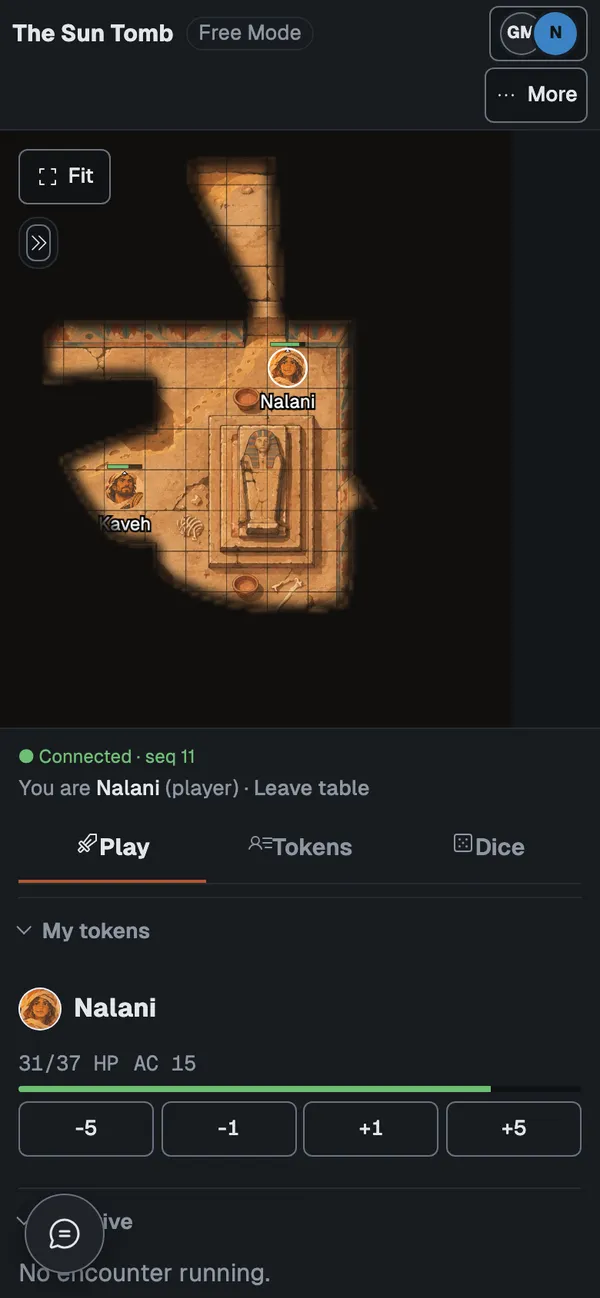
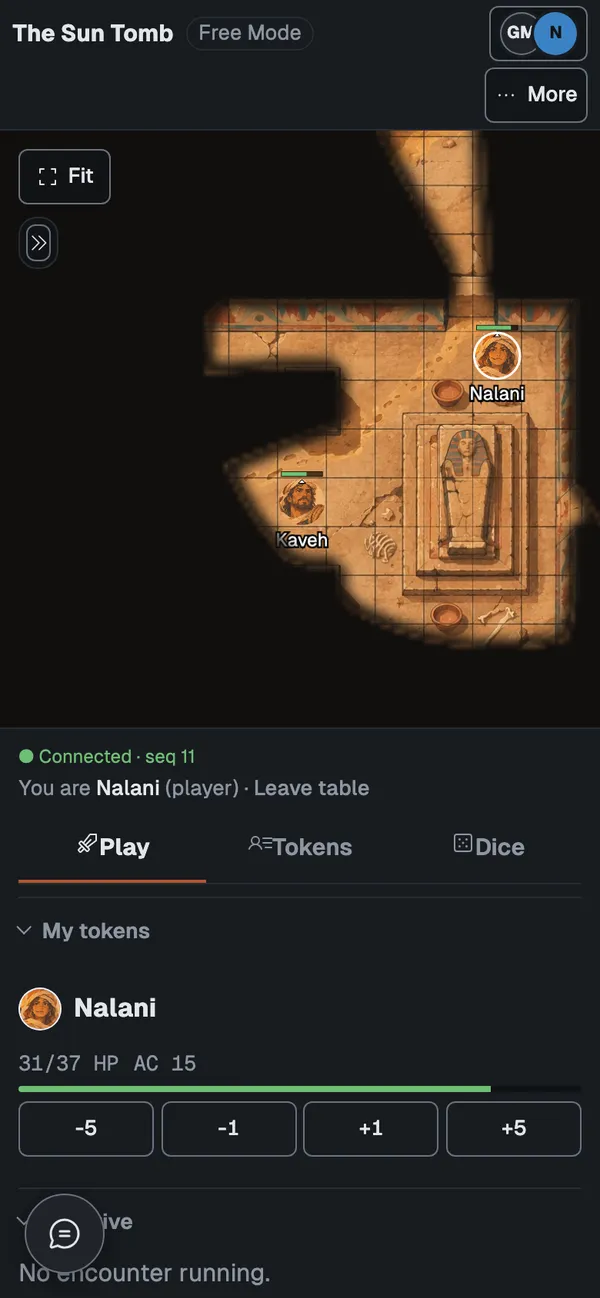
fix(web): home phone capture fills the board, no blank edge
The players section's capture of a player's phone showed the board's
background down the right edge: it had been panned to centre the lit
area. Retaken zoomed in around the lit area with no pan, so the map
reaches both edges of the board.

Changed region(s): [[0.06, 0.0924, 0.99, 0.5239]]

diff --git a/apps/web/public/img/home/CREDITS.md b/apps/web/public/img/home/CREDITS.md
@@ -43,7 +43,7 @@ the face for the board's round token.
 
 | File | What it is | How it was made |
 | --- | --- | --- |
-| `player-phone.webp` | A player's board on a phone, 600 × 1298 | The Sun Tomb uploaded to a dev account's library on the isolated dev server and set in a room, with the walls from `homeWalls.ts`, line of sight on and a 30 ft sight range. A guest joined at 390 × 844 (2× pixels) as Nalani, and the board was panned and zoomed toward Nalani's token. The hidden guardian in the side chamber is not in the player's view, as at the table. |
+| `player-phone.webp` | A player's board on a phone, 600 × 1298 | The Sun Tomb uploaded to a dev account's library on the isolated dev server and set in a room, with the walls from `homeWalls.ts`, line of sight on and a 30 ft sight range. A guest joined at 390 × 844 (2× pixels) as Nalani, and the board was zoomed in around the lit area, without panning, so the map fills the board to both edges. The hidden guardian in the side chamber is not in the player's view, as at the table. |
 | `attack-still.webp` | The attack tile's still, 960 × 602 | The home page's own attack tile (the animation editor's preview stage) playing Fireball, captured 550 ms in at 2× pixels. Shown instead of the live stage under reduced motion. |
 
 The `*-thumb.webp` files for `broken-span`, `hollowfrost-keep`, `temple-green-sun` and

diff --git a/openspec/changes/product-design-language/verification-log.md b/openspec/changes/product-design-language/verification-log.md
@@ -771,3 +771,12 @@ Not done. The team generates them in ChatGPT from 3.1's prompts and saves them t
   - `homePrepare.test.tsx` asserts that the slider starts at 70 and that the lined-up message shows. Its tests and the copy check pass, 7 in total.
   - A 1440px screenshot shows the app's grid on the forge's flagstones.
   - `npm run lint` is clean and `npm run typecheck` reports 0 errors.
+
+## Phone capture without a blank edge (review)
+
+- **Found.** The players section's phone capture showed a blank strip down the right of the board. To centre the lit area, the capture had panned the map left, which brought its right edge, and the board's background beyond it, into view.
+- **Change.** The capture was retaken on the isolated server: the same room setup, zoomed in around the lit area with no pan, so the map fills the board to both edges. It is 600 × 1298, 37 KB. CREDITS.md now describes the new framing.
+- **Checks.**
+  - The board's right-edge pixels down its height are all (18, 15, 13), the tomb in shadow, not the page behind the board.
+  - A 1440px screenshot of the section shows the new capture.
+  - `homePage.test.tsx` passes.
